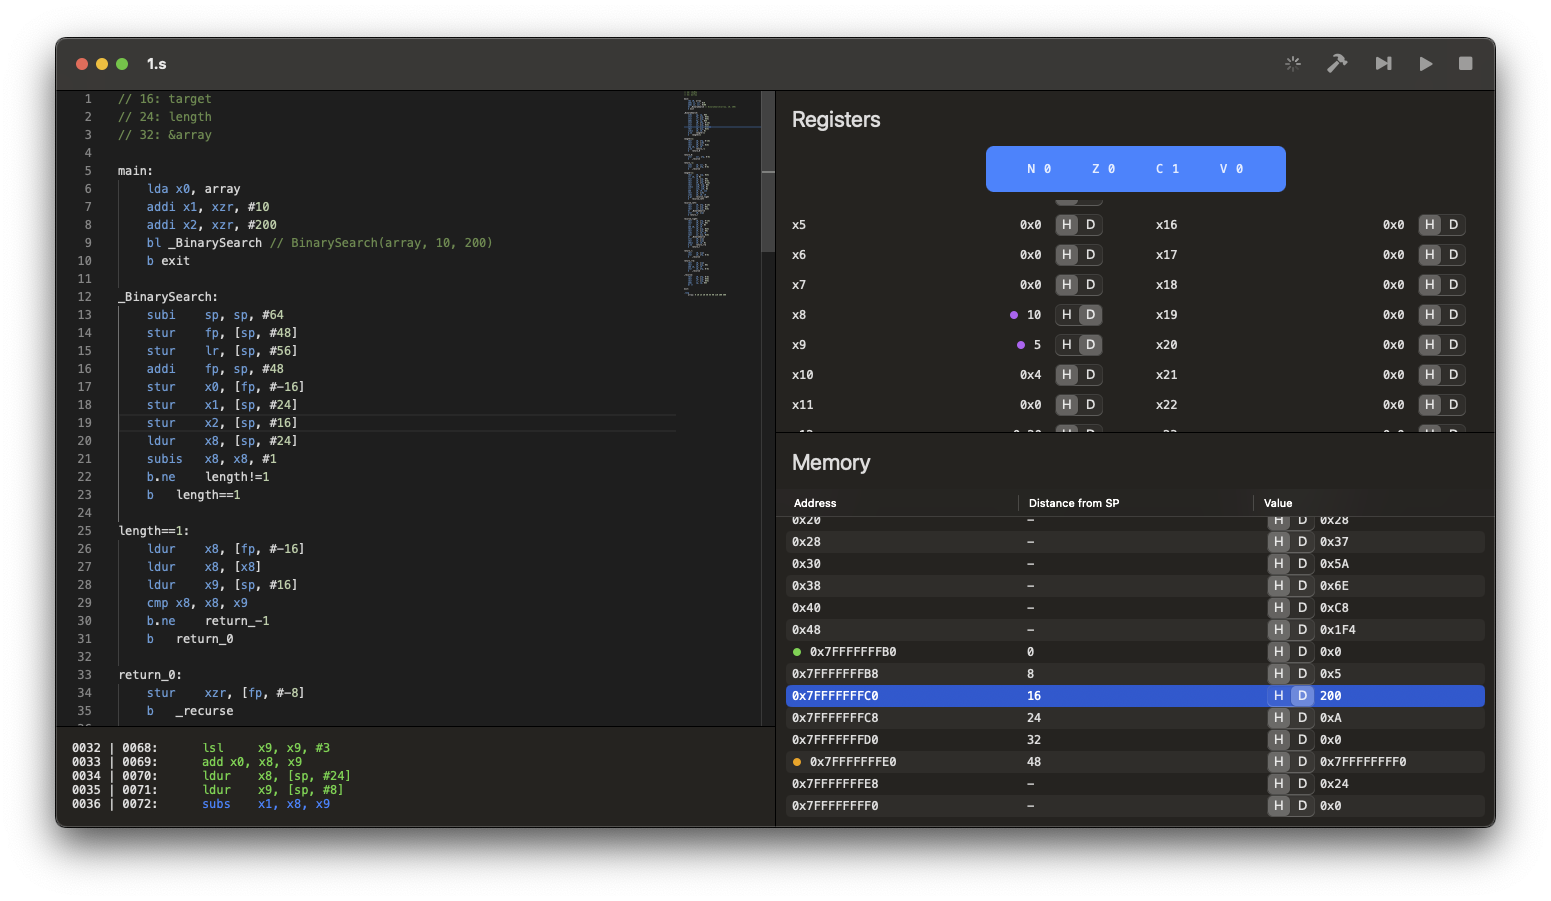
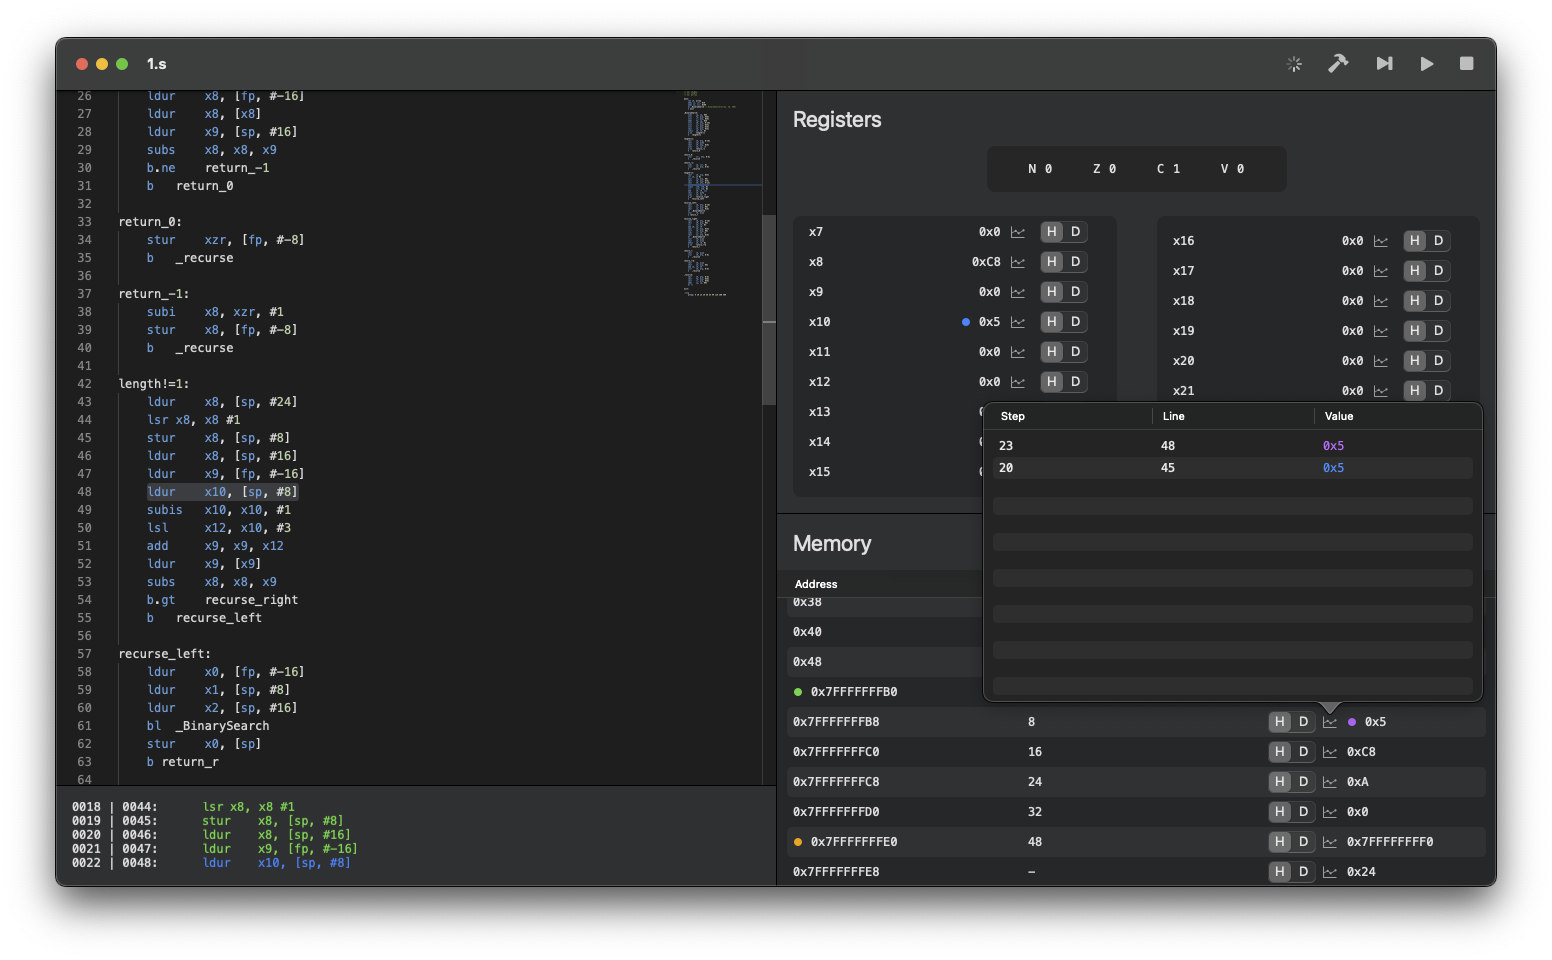
added history pop up

diff --git a/LEGv8-Simulator/Views/RegisterRowView.swift b/LEGv8-Simulator/Views/RegisterRowView.swift
@@ -48,7 +48,7 @@ struct RegisterRowView: View {
                 }
                 .buttonStyle(.borderless)
                 .popover(isPresented: $isPresented) {
-                    if let history = interpreter.history.registers[name]?.values.sorted() {
+                    if let history = interpreter.history.registers[name]?.values.sorted { a, b in a > b } {
                         HistoryView(displayMode: displayMode, history: history)
                             .frame(width: 500, height: 300)
                             .animation(.default, value: history)

diff --git a/LEGv8-Simulator/Views/MemoryValueColumnView.swift b/LEGv8-Simulator/Views/MemoryValueColumnView.swift
@@ -32,7 +32,7 @@ struct MemoryValueColumnView: View {
             }
             .buttonStyle(.borderless)
             .popover(isPresented: $isPresented) {
-                if let history = interpreter.history.memory[memory.id]?.values.sorted() {
+                if let history = interpreter.history.memory[memory.id]?.values.sorted { a, b in a > b } {
                     HistoryView(displayMode: displayMode, history: history)
                         .frame(width: 500, height: 300)
                         .animation(.default, value: history)

diff --git a/LEGv8-Simulator/Views/Settings/AboutView.swift b/LEGv8-Simulator/Views/Settings/AboutView.swift
@@ -8,7 +8,7 @@
 import SwiftUI
 
 struct AboutView: View {
-    let version: String = "0.1.3 (Beta)"
+    let version: String = "0.1.4 (Beta)"
     
     var body: some View {
         HStack {
